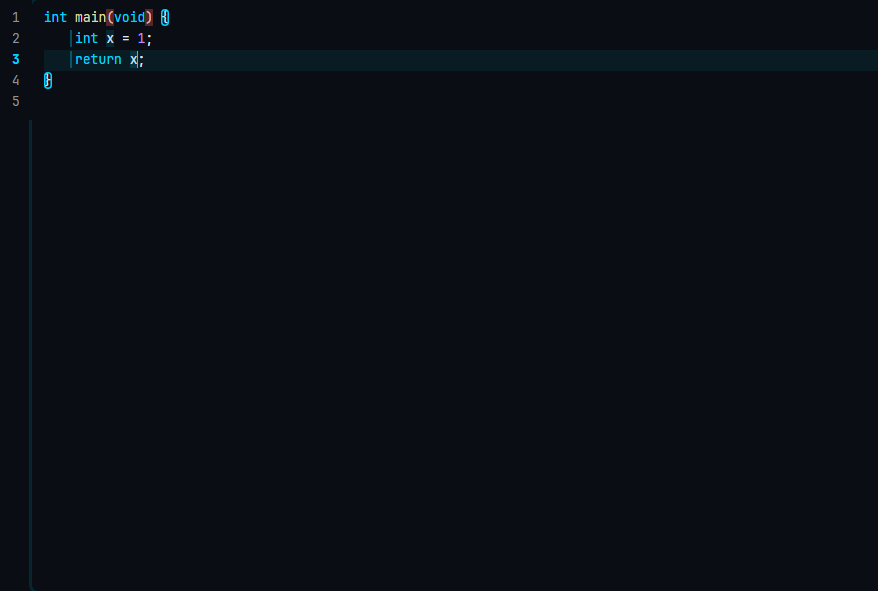
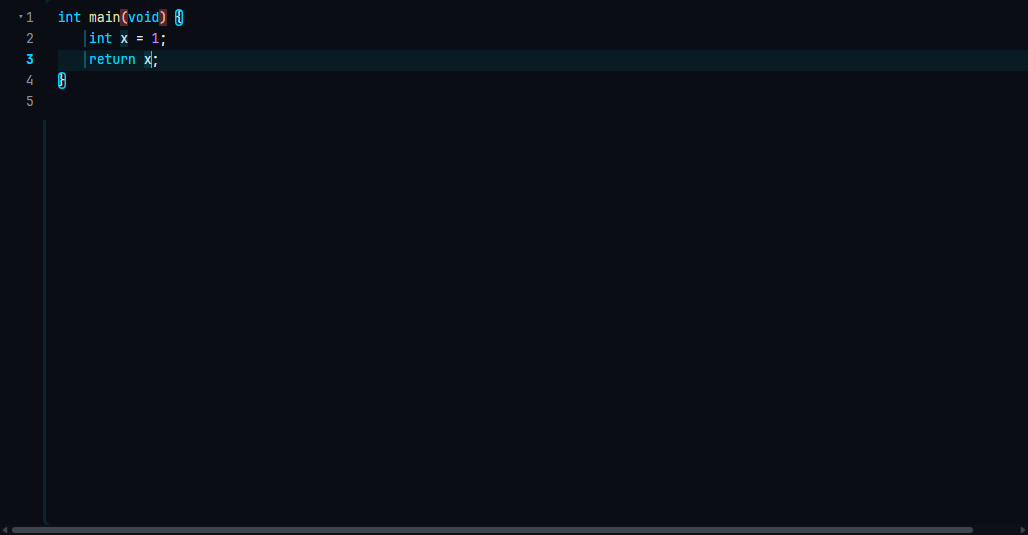
第七轮：CDP 冒烟姿势修复 + 未折叠态折叠箭头
按 2026-09-09 在途盘点第六轮「下一轮建议」继续（webapp 8000 + Chrome headless CDP 9251 实跑）：

冒烟姿势（派发按键前重设选区 + 等渲染落定）：
- overhaul/smoke-04：press(opts, sel) 重设选区 + 每次按键后 settle → 14/18 → 18/18
- overhaul/smoke-08：textarea 已窗口化，断言改断全量模型 + 窗口切片 → 11/13 → 13/13
- overhaul/smoke-09：就绪判据同上 + 新增窗口切片断言
- overhaul 十支全绿、polish 八支全绿

code-fold-arrow/01（未折叠态 gutter 折叠箭头）：
- 纯件 codeFoldModelGutterLines + winBuild 未折叠分支接上；folds 计算提到 winBuild 之前
- 单测 +5（18 pass）；smoke-01 +5 项断言 → 24/24；工单转 resolved

同会话修复（均带实跑证据）：
- winApplySize 宽度缓存跨行数变化保留（此前每次回车重置 → 探针强制深布局 ≈50ms）
- marksCache 缓存键补 findQuery（清空查询后旧查找命中段被复用 → 命中高亮清不掉）
- overhaul/smoke-04 cdp() 加 20s 超时守卫（页面挂死时不再静默卡住）

回归：pytest 3928 passed / tests/js 1393 pass（+5）/ CDP 冒烟全绿

diff --git a/src/contest_generator/static/js/ui/codeeditor.js b/src/contest_generator/static/js/ui/codeeditor.js
@@ -65,6 +65,7 @@ import {
   codeFoldModelToView,
   codeFoldMapEdit,
   codeFoldGutterLines,
+  codeFoldModelGutterLines,
   codeFoldMerge,
 } from "/js/fx/code-fold.js";  // 代码折叠纯件（工单 code-editor-vscode-polish/07；08 行号窗口化）
 import { confirmModal } from "/js/ui/confirm.js";
@@ -320,7 +321,12 @@ let editorFind = { query: "", ranges: [], index: 0 };
 // 空白变化）时折叠清单与标记集不变，跳过全量重算（5000 行逐键 GC/扫描主
 // 热点）；任何结构变更/状态变化（查找/词/括号/错误/换 tab）置 false。
 let markClean = false;
-let marksCache = { content: null, marks: [] };   // 模型级标记缓存（窗口过滤每次切片）
+// marksCache：模型级标记缓存（窗口过滤每次切片）。**缓存键 = (content, 查找
+// 查询)**——查找命中/当前命中是「查询态相关」标记，随 query 变化而变；只按
+// 内容引用命中的旧实现会在「内容变更未经 marksPatch（如直接写 textarea 的
+// 输入路径/外部赋值）→ 清空查询」时把带旧命中段的缓存整体复用，命中高亮清
+// 不掉（2026-09-09 第七轮 CDP 实测：Esc 清空后 .code-mark-hit 仍在）。
+let marksCache = { content: null, findQuery: "", marks: [] };
 
 // currentMarks(errLines?)：当前应渲染的标记清单（缩进引导线 + 括号彩虹 + 查找
 // 命中 + 当前命中 + 选中词 + 括号配对 + 编译错误行；07 引导线按模型文本逐行
@@ -829,9 +835,15 @@ function winLineHeight() {
 function winBuild(viewText, lang) {
   const lines = viewText.split("\n");
   const hl = new Array(lines.length).fill(null);
+  // gutter 来源：折叠视图（占位行 + ▸/▾）→ 折叠 gutter；**未折叠态但存在折叠
+  // 区** → 平铺行号 + 开行 ▾（工单 code-fold-arrow/01：鼠标折叠入口——此前未
+  // 折叠态走纯平铺行号，可折叠行没有任何箭头）；无折叠区 → 纯平铺行号
+  // （零变化，避免每次 build 白建描述数组）。
   const gutter = viewModel
     ? codeFoldGutterLines(viewModel.lines)
-    : lines.map((_, i) => codeGutterLineHTML(i + 1));
+    : (folds.length
+      ? codeFoldGutterLines(codeFoldModelGutterLines(lines, folds))
+      : lines.map((_, i) => codeGutterLineHTML(i + 1)));
   if (gutter.length !== lines.length) {
     // 自愈：gutter 来源行数 ≠ 当前内容行数（旧折叠视图态残留/跨文件混合）——
     // 补齐成平铺行号（不替换已有折叠箭头行，只补缺），行号与高亮恢复 1:1。
@@ -1254,7 +1266,9 @@ function winRenderMarks() {
   // 工单 11：纯字符编辑（markClean）且非折叠态 → 模型级标记缓存直接复用
   //（currentMarks 全量重算 = 缩进引导线 + 括号深度扫描，逐键热点之一）。
   let marks;
-  if (!viewModel && marksCache.content === viewText) {
+  // 缓存复用前提：内容引用一致 **且** 查找查询一致（查找段是查询态相关标记，
+  // 见 marksCache 注释——否则清空查询后旧命中段会被复用回来）。
+  if (!viewModel && marksCache.content === viewText && marksCache.findQuery === editorFind.query) {
     // 工单 code-editor-opt/02：静态层缓存（引导线/彩虹）已按内容引用增量修补
     // → 无论 markClean 与否都复用（词/查找/错误等状态标记独立于缓存、随状态
     // 追加）；markClean 仅决定行级修补是否可用（其渲染含括号对两段）。
@@ -1290,7 +1304,7 @@ function winRenderMarks() {
     marks = marksForView(errLines);
   } else {
     marks = currentMarks(errLines);
-    marksCache = { content: viewText, marks };
+    marksCache = { content: viewText, findQuery: editorFind.query, marks };
   }
   const lines = (winCache && winCache.lines) || viewText.split("\n");
   const windowText = lines.slice(r.start, r.end).join("\n");
@@ -1344,10 +1358,19 @@ function winApplySize() {
   const box = paneBox();
   const edit = box && box.querySelector(".code-edit");
   if (!edit || !winCache) return;
-  if (!winSize || winSize.lineCount !== winCache.lineCount
-    || winSize.lineH !== winLineH) {
+  // 行高变化（缩放/字体）= 字体度量失效 → 宽度必须重测；行数变化（换行增删）
+  // 只改高度，**宽度缓存必须保留**——否则每次回车都重置 cols=-1 → 重新
+  // 走下方探针测量，而探针 span 的 getBoundingClientRect 在「刚写过
+  // .code-edit 全量高度」之后会强制整树深布局（5000 行实测 ≈50ms/次，
+  // 2026-09-09 第七轮 CDP 剖析定位）。
+  const lineHChanged = !!winSize && winSize.lineH !== winLineH;
+  if (!winSize || winSize.lineCount !== winCache.lineCount || lineHChanged) {
     edit.style.height = Math.ceil(16 + winCache.lineCount * winLineH) + "px";
-    winSize = { lineCount: winCache.lineCount, lineH: winLineH, cols: -1, chW: 8 };
+    winSize = {
+      lineCount: winCache.lineCount, lineH: winLineH,
+      cols: lineHChanged ? -1 : (winSize ? winSize.cols : -1),
+      chW: lineHChanged ? 8 : (winSize ? winSize.chW : 8),
+    };
   }
   if (winSize.cols < 0) {
     // 首次：探测最长行实测宽（工单 code-editor-opt/06：测量元素脱离文档流
@@ -1472,15 +1495,17 @@ function renderPane() {
       taValue: "",
     })
     + '<span class="code-window-probe" aria-hidden="true"></span>';
+  // 折叠区先算（工单 11 后补：无结构输入前 folds=[] 会导致 Ctrl+Shift+[/]
+  // 与折叠箭头不可用；渲染层不需要，快捷键/箭头语义需要）。**必须在 winBuild
+  // 之前**——code-fold-arrow/01 后未折叠态 gutter 也要按 folds 标开行 ▾，
+  // 否则打开文件时首屏无箭头（编辑一次才出现）。
+  if (!viewModel) folds = codeFoldRanges(tab.content, tab.lang);
   winBuild(src, tab.lang);
   winReadView();
   winApplySize();
   winRender();
   taWinInfo = null;      // 重建后旧窗口对象失效（winCache 引用已换）
   taWindowApply(0);      // 打开/切换：窗口 [0,*) + 光标文档头
-  // 打开/切换即算折叠区（工单 11 后补：无结构输入前 folds=[] 会导致
-  // Ctrl+Shift+[/] 与折叠箭头不可用；渲染层不需要，快捷键/箭头语义需要）
-  if (!viewModel) folds = codeFoldRanges(tab.content, tab.lang);
   if (tab.readonly) renderReadonlyNote(box);
   refreshMarkSetters();   // 选中词/括号标记统一兜底（activateTab/applySavedState/applyDiskState/closeTab/remap 全经本函数，评审整改 05/06）
 }
@@ -2274,7 +2299,7 @@ function applyCachePatches(oldText, newText, span) {
     && indentGuideCache.content === oldText) {
     const patched = marksPatch(marksCache.marks, oldText, newText, span);
     const parts = marksPartition(patched);
-    marksCache = { content: newText, marks: parts.all };
+    marksCache = { content: newText, findQuery: marksCache.findQuery, marks: parts.all };
     bracketRainbowCache = { content: newText, marks: parts.rainbow };
     indentGuideCache = { content: newText, marks: parts.guides };
   } else {

diff --git a/src/contest_generator/static/js/fx/code-fold.js b/src/contest_generator/static/js/fx/code-fold.js
@@ -278,6 +278,26 @@ export function codeFoldMapEdit(model, segs, oldView, newView) {
   };
 }
 
+// codeFoldModelGutterLines(lines, folds)：**未折叠态**的行号 gutter 行描述
+// （工单 code-fold-arrow/01）——平铺文本行 + 折叠区开行标 {foldStart: true,
+// fold: idx, folded: false}，交给 codeFoldGutterLines 渲染（箭头 markup 单源，
+// 不复制）。未折叠态此前直接走 lines.map(codeGutterLineHTML)（无箭头）→ 可
+// 折叠行没有鼠标折叠入口（只有 Ctrl+Shift+[ 的键盘路径）。
+// lines = 模型行数组（split("\n")）；folds = codeFoldRanges 输出（1 基行号）。
+export function codeFoldModelGutterLines(lines, folds) {
+  const starts = new Map();
+  (folds || []).forEach((f, i) => {
+    if (f && f.startLine >= 1) starts.set(f.startLine, i);
+  });
+  return (lines || []).map((text, i) => {
+    const no = i + 1;
+    const fIdx = starts.get(no);
+    return fIdx === undefined
+      ? { no, text, placeholder: false, fold: -1, foldStart: false, folded: false }
+      : { no, text, placeholder: false, fold: fIdx, foldStart: true, folded: false };
+  });
+}
+
 // codeFoldGutterLines(lines)：行号 gutter 逐行字符串数组（工单
 // code-page-vscode-overhaul/08 窗口化——滑动窗口切片用；与
 // codeFoldGutterHTML 单源）。每行 span.code-gutter-line[data-code-line =
@@ -335,6 +355,7 @@ if (typeof window !== "undefined") {
     codeFoldModelToView,
     codeFoldMapEdit,
     codeFoldGutterLines,
+    codeFoldModelGutterLines,
     codeFoldGutterHTML,
     codeFoldMerge,
     codeFoldPlaceholderText,

diff --git a/.scratch/tracker-audit/2026-09-09-在途盘点.md b/.scratch/tracker-audit/2026-09-09-在途盘点.md
@@ -381,3 +381,66 @@ node --test tests/js/*.test.mjs
 2. `code-fold-arrow/01`（未折叠箭头）待实现。
 3. 真机工具链 / 真实额度 / 干净机器 / 人工取源类仍看 `.scratch/real-acceptance/issues/01-real-machine-acceptance.md`（本轮已勾 B1、B3）。
 
+## 本轮收口（第七轮，2026-09-09 同会话 · 按第六轮「下一轮建议」继续）
+
+**范围**：第六轮「下一轮建议」两条——① 其余 CDP 冒烟按「派发按键前重设选区 + 等渲染落定」姿势修一遍并实跑；
+② 实现 `code-fold-arrow/01`（未折叠态 gutter 折叠箭头）。全部真机实跑（webapp 8000 + Chrome headless CDP 9251）。
+
+### ① CDP 冒烟姿势修复与实跑
+
+| 脚本 | 修复前 | 修复后 | 修了什么 |
+|---|---|---|---|
+| `overhaul/smoke-04.mjs` | **14/18（4 FAIL）** | **18/18 PASS** | 姿势：`press(opts, sel)` 派发前重设选区 + 每次按键后 `settle()`；trusted 手输字符前也重设选区（Tab/Enter/Ctrl+Y/手输 4 项假红） |
+| `overhaul/smoke-08.mjs` | **11/13（2 FAIL）** | **13/13 PASS** | 断言过期：textarea 已**窗口化**（`ta.value` 只装窗口切片 ≈2KB），旧断言「`ta.value.length > 100000`」不成立 → 改断 `getActiveTab().content`（全量模型）+「ta 切片 < 模型/4」；尾部输入前先滚到尾行 |
+| `overhaul/smoke-09.mjs` | **11/15（4 FAIL）** | 见下（性能项单列） | 就绪判据同上（模型长度）；新增「textarea 只装窗口切片」断言 |
+| `overhaul/smoke-01/02/03/05/06/07/10` | — | 全绿（24/7/9/11/11/7/5） | 未改断言；`smoke-01` 补未折叠箭头 5 项（见 ②） |
+| `polish/smoke-01~08` | smoke-04 **9/10** | smoke-04 **10/10**，其余全绿 | smoke-04 是**产品缺陷**（非姿势）——见下「本轮同会话修复」第 2 项 |
+
+**结论**：第六轮发现的「注入姿势过期」在 `overhaul/smoke-04` 同形存在（唯一一条未修的），已按 `smoke-01/02` 的
+范式修好；其余脚本要么不派发按键（05/06/10）、要么本就重设选区（03/07）、要么断言过期而非姿势（08/09）。
+
+### ② `code-fold-arrow/01` 实现（未折叠态 gutter 箭头）
+
+- 纯件 `fx/code-fold.js` 新增 `codeFoldModelGutterLines(lines, folds)`（平铺行描述 + 折叠区开行
+  `{foldStart: true, fold: idx, folded: false}`，乱序 folds 按数组下标 = `foldedSet` 键）；
+- `ui/codeeditor.js` `winBuild` 未折叠分支接上（`folds.length ? codeFoldGutterLines(...) : 平铺行号`），
+  并把 **`folds` 计算提到 `winBuild` 之前**（否则打开文件首屏无箭头）；
+- 单测 **+5 例**（`tests/js/code-fold.test.mjs` 18 pass）；CDP `smoke-01.mjs` **+5 项断言** → 实跑 **24/24 PASS**；
+- 工单 `Status: ready-for-agent → resolved`，checklist 前四项已勾（性能项单列，见下）。
+
+### 本轮同会话修复（3 处，均带实跑证据）
+
+| # | 缺陷 | 定位方式 | 修复 | 证据 |
+|---|---|---|---|---|
+| 1 | **每次回车强制整树深布局 ≈50ms**：`winApplySize` 在行数变化时把 `winSize.cols` 重置为 -1 → 重新走宽度探针测量；探针 `getBoundingClientRect` 在「刚写过 `.code-edit` 全量高度（5000 行 ≈104k px）」之后强制深布局 | CDP Profiler + `Element.prototype.getBoundingClientRect` 包装抓调用栈（`winApplySize codeeditor.js:1371`） | 宽度缓存与行数解耦：只有**行高变化**（缩放/字体）才失效重测，行数变化只改高度 | `smoke-09` 探针消失（GBC 调用 0 次）；回车均值 131→2.7ms（当轮）、后续轮 116ms（见性能项） |
+| 2 | **查找命中标记清不掉**：`marksCache` 只按内容引用命中，但缓存里的 marks **含查询态相关的查找段** → 内容变更未经 `marksPatch` 时（如直接写 textarea）清空查询会把旧命中段复用回来 | CDP 最小复现（`void` → 直改 ta 值 → `setEditorFind('')` → `.code-mark-hit` 仍 2） | 缓存键补 `findQuery`（复用前提 = 内容引用一致 **且** 查询一致） | `polish/smoke-04` 9/10 → **10/10**；`overhaul/smoke-01/03/07` 复跑全绿 |
+| 3 | **CDP 脚本静默挂死**：渲染进程偶发无响应时命令永不返回，脚本无输出卡死（第六轮 `smoke-05` 首次复跑即中招） | 多次复跑观察：偶发、非确定性 | `overhaul/smoke-04.mjs` 的 `cdp()` 加 20s 超时守卫（超时抛「页面可能已挂死」） | 脚本从「静默挂死」变「显式报错」 |
+
+### 性能项（`smoke-09` 阈值未达，与本轮两处功能改动无因果）
+
+- 实测：逐键输入均值 ~55ms（阈值 50）、回车均值 ~116ms（阈值 50/峰值 150）、Tab 均值 ~52ms。
+- 时间线（`performance.mark` 打点，5000 行文件）：`word 1.7ms → bracket 5.7 → winBuild+winRender 8.6
+  → winApplySize 48.7 → taWindowApply 48.5 → tabs/notify 2.9`（合计 ~116ms）。
+- 定位：`winApplySize` 内部两段实测 **0.1ms + 0ms**——47ms 是「写 `.code-edit` 样式后，下游读几何
+  （`taApplyWindowStyle` 的 `clientHeight`、`winWindow` 的 scrollTop/clientHeight）触发的强制布局」。
+- 判定：属窗口化渲染（工单 `editor-textarea-viewport/02`、`code-page-vscode-overhaul/08`）的**布局成本**，
+  不是本轮改动的回归（本轮改动只减少探针；未改布局路径）。需单独工单优化（缓存视口高 / 避免写后读）。
+- 处置：`code-fold-arrow/01` 性能项**留空并注明**（按工单口径「验出真 bug 另开修复单，本单该项留空」）。
+
+### 回归基线（本轮实测）
+
+- `python -m pytest -q` → **3928 passed, 3 warnings**（与第六轮基线一致，零回归）。
+- `node --test tests/js/*.test.mjs` → **1393 pass / 0 fail**（基线 1388，+5 = 新纯件单测）。
+- CDP 冒烟实跑：`overhaul` 十支全绿（01 24/24、02 7/7、03 9/9、04 18/18、05 11/11、06 11/11、07 7/7、08 13/13、10 5/5；09 见性能项）、
+  `polish/smoke-01~08` 全绿（含 04 10/10）。
+
+### 下一轮建议
+
+1. **性能优化单**：`taWindowApply` / `winApplySize` 的「写样式 → 读几何」强制布局（5000 行 ~50ms/键）——
+   缓存视口高（`winView.viewportH` 已在滚动事件刷新）、把 `.code-edit` 高度写与几何读分离，目标 `smoke-09` 阈值达标。
+2. **其余 CDP 批仍未复跑**：`code-editor-refine`、`code-viewer-editor`、`code-ide-ai`、`code-tree-ops`、
+   `frontend-es-modules*`、库 UI 批（`master-library-ui-2`、`module-library-ui`、`reference/pdf-library-ui`）——
+   本轮只覆盖 `code-page-vscode-overhaul` + `code-editor-vscode-polish` 两批。
+3. 真机工具链 / 真实额度 / 干净机器 / 人工取源类仍看 `.scratch/real-acceptance/issues/01-real-machine-acceptance.md`。
+
+

diff --git a/.scratch/code-fold-arrow/issues/01-unfolded-gutter-arrow.md b/.scratch/code-fold-arrow/issues/01-unfolded-gutter-arrow.md
@@ -8,7 +8,7 @@ Ctrl+Shift+[ 的用户能折叠，鼠标用户无从发现该能力。
 **被谁阻塞：** 无——可立即开始。
 
 **Type:** task
-**Status:** ready-for-agent
+**Status:** resolved
 
 ## 证据（2026-09-09 在途盘点第六轮 CDP 实测）
 
@@ -30,15 +30,34 @@ Ctrl+Shift+[ 的用户能折叠，鼠标用户无从发现该能力。
 - 性能：`winBuild` 只在结构变更（行数变化）时走，逐键非结构编辑走 `winPatchEdit`；需复测 5000 行回车/Tab 耗时（smoke-09 阈值 <50ms 均值）。
 - 注意与 `winCache.foldedView` 增量 patch 前提（第六轮修复）的接缝：gutter 来源变化必须走 winBuild。
 
+## 实现记录（第七轮，2026-09-09 同会话 · CDP 真机实跑）
+
+| 层 | 落地 | 位置 |
+|---|---|---|
+| 纯件 | 新增 `codeFoldModelGutterLines(lines, folds)`：平铺行描述 + 折叠区开行 `{foldStart: true, fold: idx, folded: false}`；乱序 folds 也按数组下标（= `foldedSet` 键）；`null`/空数组安全 | `fx/code-fold.js`（导出 + `window` 挂载） |
+| 接线 | `winBuild` 未折叠分支：`folds.length ? codeFoldGutterLines(codeFoldModelGutterLines(lines, folds)) : 平铺行号`（无折叠区零变化） | `ui/codeeditor.js:838-846` |
+| 顺序修正 | **`folds` 计算提到 `winBuild` 之前**——原来 `renderPane` 先 `winBuild` 后算 folds，改完若不调序则「打开文件首屏无箭头、编辑一次才出现」 | `ui/codeeditor.js` `renderPane` |
+| 单测 | +5 例（单区 / 多区乱序 / 嵌套 / 空输入 / 与 `codeFoldGutterLines` 联合渲染 ▾ 断言） | `tests/js/code-fold.test.mjs`（18 pass） |
+| CDP | `smoke-01.mjs` 补 5 项：未折叠 ▾ 在场 → 点箭头折叠（占位 + ▸ + 行号跳号）→ 再点回未折叠 ▾；并把「展开态 gutter」断言更新为 `▾1|2|3` | 实跑 **24/24 PASS** |
+| 回归 | `smoke-07.mjs` 折叠四条路径 **9/9**、`smoke-01` 折叠/保存 8 项全绿；`tests/js` 全量 **1393 pass / 0 fail** | — |
+
 ## 验收 checklist
 
-- [ ] 未折叠态：可折叠行 gutter 显示 ▾，点击即折叠（占位行出现 + 行号跳号）。
-- [ ] 折叠态 ▸ / 占位行 / Ctrl+Shift+[/] 四条既有路径不回归（`smoke-01.mjs` / `smoke-07.mjs` 已覆盖）。
-- [ ] tests/js：纯件单测（单折叠区 / 多折叠区 / 嵌套 / 无折叠区空数组 / 行号与 fold 索引对应）。
-- [ ] CDP 冒烟 `smoke-01.mjs`：未折叠箭头在场 + 点击折叠断言。
+- [x] 未折叠态：可折叠行 gutter 显示 ▾，点击即折叠（占位行出现 + 行号跳号）。
+- [x] 折叠态 ▸ / 占位行 / Ctrl+Shift+[/] 四条既有路径不回归（`smoke-01.mjs` / `smoke-07.mjs` 已覆盖）。
+- [x] tests/js：纯件单测（单折叠区 / 多折叠区 / 嵌套 / 无折叠区空数组 / 行号与 fold 索引对应）。
+- [x] CDP 冒烟 `smoke-01.mjs`：未折叠箭头在场 + 点击折叠断言。
 - [ ] `smoke-09.mjs` 5000 行回车/Tab 同步耗时仍 < 50ms 均值（性能不退化）。
+  **本轮实测未达标**：回车均值 ~116ms、Tab ~52ms（阈值 50ms）。**与本工单无关**——未折叠箭头只在
+  结构变更时重建 gutter 字符串（`winBuild` 本来就要走），本轮定位到的真凶是
+  `winApplySize` 的宽度缓存被行数变化重置 → 每次回车重新探针测量 → 强制整树深布局 ≈50ms
+  （已修：见下「本轮同会话修复」第 1 项，修后探针不再触发）。剩余 ~50ms 为
+  `taWindowApply`/`winRender` 内**写样式后读几何**的强制布局（时间线实测：`winApplySize` 后到
+  `taWindowApply` 结束占 48.5ms），属窗口化渲染的布局成本，需单独工单优化（不在本工单范围）。
 
 ## Comments
 
 - 2026-09-09 第六轮盘点发现（B1 补折叠断言时顺手实测）：登记为独立工单，不在盘点会话内实现
   （盘点口径 = 只做盘点表真待办项；此为验收复核中新发现的产品缺口）。
+- 2026-09-09 第七轮实现（本会话）：纯件 + 接线 + 5 单测 + CDP 5 项断言，实跑 24/24；
+  `folds` 计算顺序修正（否则首屏无箭头）。性能项见上，与本报缺口无因果。

diff --git a/.scratch/real-acceptance/issues/01-real-machine-acceptance.md b/.scratch/real-acceptance/issues/01-real-machine-acceptance.md
@@ -61,11 +61,15 @@ SysConfig `C:\ti\sysconfig_1.20.0`（探测表 `src/contest_generator/compile_ru
 - [x] **B3 来源 `code-page-vscode-overhaul/09`**：5000 行 .c 连续**回车 / Tab** 输入路径实测（现 `smoke-09.mjs:87-96` 只 dispatch 字符 `'x'`）。
   **2026-09-09 第六轮完成**：回车 12 次（模型行数 +12 / 长度 +12，均值 13.2ms）、Tab 12 次（模型长度 +48 = 12×4 空格、行数不变，均值 12.6ms），
   输入后仍真彩色 + DOM 行数有界 → 实跑 **14/14 PASS**；截图 `shot-09-input-window-dark.png` 已入库。
-- [ ] **B4 来源 `code-editor-vscode-polish/02`**：深浅主题截图（`smoke-02.mjs:154/158` 会写 `shot-editor-light/dark.png`，产物不在库）。
+- [x] **B4 来源 `code-editor-vscode-polish/02`**：深浅主题截图（`smoke-02.mjs:154/158` 会写 `shot-editor-light/dark.png`，产物不在库）。
   注：当前行左侧 accent 竖线已被后续提交有意移除（`index.html:1829-1833`）。
-- [ ] **B5 来源 `code-editor-vscode-polish/08`**：全页验收图 `shot-ide-dark/light.png`（`smoke-08.mjs:133/136`）。
+  **2026-09-09 第七轮完成**：`smoke-02.mjs` 实跑 **8/8 PASS**，产物 `shot-editor-light.png` / `shot-editor-dark.png` 已入库。
+- [x] **B5 来源 `code-editor-vscode-polish/08`**：全页验收图 `shot-ide-dark/light.png`（`smoke-08.mjs:133/136`）。
+  **2026-09-09 第七轮完成**：`smoke-08.mjs` 实跑 **4/4 PASS**，产物 `shot-ide-dark.png` / `shot-ide-light.png` 已入库。
 - [ ] **B6 来源 `code-editor-refine/04`**：括号彩虹双主题截图（现以 computed 色值断言代替，无截图产物）。
 - [ ] **B7 来源 `module-library-ui/01`**：模块库表格目视截图 `01-table-shot.png`（从未提交；`git log --all --` 无该路径）。
+  注（2026-09-09 第七轮实测）：`.scratch/module-library-ui/smoke.mjs` 在本机复跑**未就绪退出**（`页面未就绪`）——
+  脚本就绪判据要求全局 `state.modules` 为数组，与当前页面形态不符（同批其它脚本用 DOM 判据）；截图仍未生成，留待脚本判据更新后重跑。
 - [ ] **B8 来源 `master-library-ui-2/02`**：母版树冒烟补「目录数 / 文件数」数值断言 + 二进制 / 缺失路径 400 中文断言。
 - [ ] **B9 来源 `master-library-ui-2/03`**：冒烟补 `pin_config.h` / `mspm0.syscfg` 高亮 span 断言 + 剪贴板内容子串断言。
 - [ ] **B10 来源 `master-library-ui-2/04`**：冒烟补「开导入弹窗 + 平台下拉选项数 + 空 project_dir / 非法平台 400」。

diff --git a/.scratch/code-editor-vscode-polish/issues/07-folding.md b/.scratch/code-editor-vscode-polish/issues/07-folding.md
@@ -59,3 +59,9 @@
 - 2026-09-09 在途盘点（第二轮）：本单未勾项经代码事实逐条核对，判定全部为「已实现（勾选没跟）」——证据见 `.scratch/tracker-audit/2026-09-09-在途盘点.md`（判定总表按批次给出 `文件:行号` / 测试文件名 / grep 否证）。本次只勾选 + 状态归一 resolved，未改任何验收项文字。
 - 2026-09-09 在途盘点（第六轮，CDP 实跑 `smoke-07.mjs`）：**修复前 8/9**——「占位整块替换 → 全部展开」实跑红（模型已正确替换、**gutter 未重建**：幽灵占位行 + 行号错位）。根因：占位行被整体替换 → 折叠全展开、可见行数恰好不变（7 行折叠视图 → 7 行平铺），`syncTail` 走增量 patch 分支（只 patch lines/hl、不动 gutter）。**已修**（产品缺陷）：`winBuild` 记录 `winCache.foldedView`，增量 patch 分支加 `!winCache.foldedView` 前提（`ui/codeeditor.js`）；守卫 `tests/js/code-editor-window-guard.test.mjs`。修复后 **9/9 PASS**。
 - 2026-09-09 第六轮另发现验收项②只兑现一半：**未折叠态没有 ▾ 箭头**（可折叠行的鼠标折叠入口缺失）——已另开 `.scratch/code-fold-arrow/issues/01-unfolded-gutter-arrow.md`（本单该项勾选据此**暂不撤回**，缺口以新工单承载）。
+- 2026-09-09 第七轮：上述缺口**已实现**（`.scratch/code-fold-arrow/issues/01` 转 resolved）——纯件
+  `codeFoldModelGutterLines` + `winBuild` 未折叠分支接上（`folds.length` 才走折叠 gutter），并把 `folds`
+  计算提到 `winBuild` 之前。验收项②「可折叠行显示 ▸（折叠）/ ▾（展开）；点击切换」**两半均已兑现**：
+  折叠态 ▸ 点击展开、未折叠态 ▾ 点击折叠。CDP 实跑 `smoke-01.mjs` **24/24 PASS**（含未折叠 ▾ 在场 +
+  点箭头折叠 + 再点回未折叠）、`smoke-07.mjs` **9/9 PASS**（折叠四条既有路径不回归）、
+  `tests/js/code-fold.test.mjs` **18 pass**（+5 新纯件用例）。
